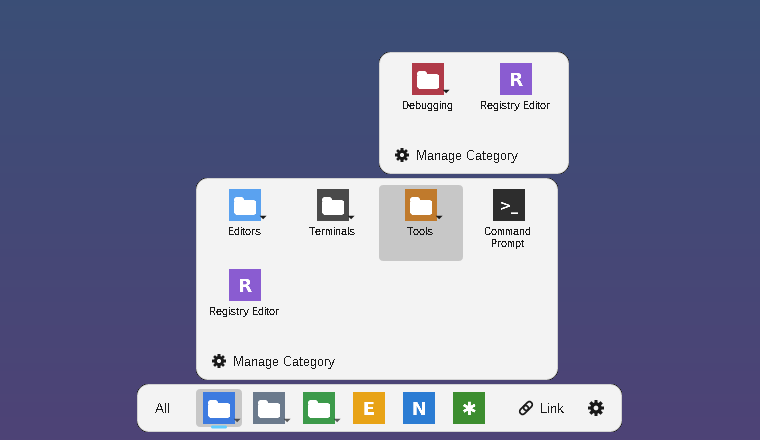
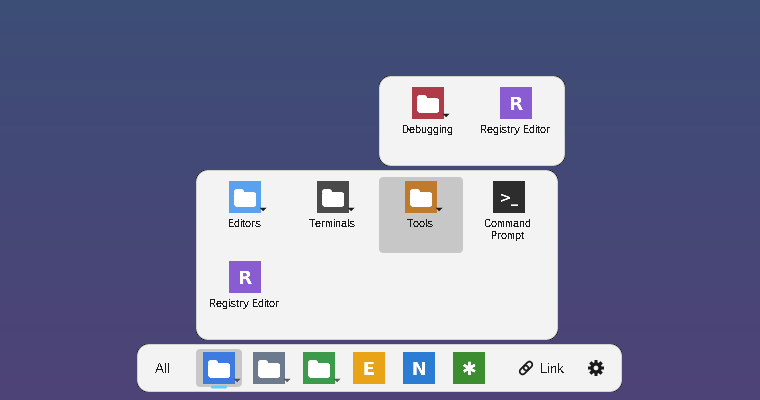
Remove "Manage Category" from category flyouts
Flyouts now only show subcategory and app tiles. Categories are managed
in the Manage window, reached from the bar's gear or the right-click
menu. README and screenshots updated.

Claude-Session: https://claude.ai/code/session_01GLkhGjuGndshja5QFx3dbt

Changed region(s): [[0.2421, 0.12, 0.7566, 0.63], [0.1816, 0.81, 0.8171, 0.99], [0.2724, 0.6, 0.3632, 0.78]]

diff --git a/src/win/flyout.rs b/src/win/flyout.rs
@@ -2,7 +2,7 @@
 //!
 //! - a **category** flyout: its subcategories and apps as tiles (large icon,
 //!   name underneath, `flyout_columns` per row; subcategories first, marked
-//!   with ▾), and "Manage Category" at the bottom. Resting the pointer on a
+//!   with ▾). Resting the pointer on a
 //!   subcategory opens *its* flyout floating above this one, the same way a
 //!   category on the strip opens, at any depth;
 //! - the **All** flyout: every app as a scrollable list.
@@ -56,7 +56,6 @@ enum View {
 enum Elem {
     Sub(u64),
     Tile(String),
-    Manage(u64),
     Row(String),
     /// Static text ("No apps in this category", the All header).
     Label,
@@ -334,7 +333,6 @@ fn rebuild(idx: usize) {
     struct Content {
         subs: Vec<(u64, String)>,
         tiles: Vec<(String, String)>,
-        manage: Option<u64>,
         empty: bool,
         rows: Vec<(String, String)>,
     }
@@ -342,14 +340,12 @@ fn rebuild(idx: usize) {
         View::Category(id) => crate::tree::find(&s.cfg.categories, *id).map(|c| Content {
             subs: c.children.iter().map(|ch| (ch.id, ch.name.clone())).collect(),
             tiles: c.apps.iter().filter_map(|a| s.catalog.get(a).map(|e| (a.clone(), e.name.clone()))).collect(),
-            manage: Some(*id),
             empty: c.children.is_empty() && c.apps.is_empty(),
             rows: Vec::new(),
         }),
         View::All { .. } => Some(Content {
             subs: Vec::new(),
             tiles: Vec::new(),
-            manage: None,
             empty: false,
             rows: s.catalog.apps.iter().map(|a| (a.id.clone(), a.name.clone())).collect(),
         }),
@@ -386,7 +382,7 @@ fn rebuild(idx: usize) {
                 .chain(content.tiles.iter().map(|(id, name)| (Elem::Tile(id.clone()), name.clone(), id.clone())))
                 .collect();
             let tiles_w = cols.min(items.len().max(1)) as i32 * (tile.0 + 2 * tm);
-            inner_w = tiles_w.max(canvas::measure("Manage Category", font).0 + s(48)).max(s(180));
+            inner_w = tiles_w.max(canvas::measure("No apps in this category", font).0 + s(16));
             let n = items.len();
             for ((col, row), (elem, text, icon)) in striplayout::grid(n, cols).into_iter().zip(items) {
                 let left = pad + col as i32 * (tile.0 + 2 * tm) + tm;
@@ -409,17 +405,6 @@ fn rebuild(idx: usize) {
                     icon: None,
                 });
                 y += s(28);
-            }
-            if let Some(id) = content.manage {
-                y += s(4);
-                let h = s(28);
-                elems.push(Placed {
-                    rect: RECT { left: pad, top: y, right: pad + inner_w, bottom: y + h },
-                    elem: Elem::Manage(id),
-                    text: "Manage Category".into(),
-                    icon: None,
-                });
-                y += h;
             }
         }
         View::All { first_row } => {
@@ -571,13 +556,6 @@ fn render(idx: usize) {
                         RECT { left: rc.left + s(4), top: y + size + s(4), right: rc.right - s(4), bottom: rc.bottom };
                     cv.text(&p.text, trc, f.small, c.text, DT_CENTER | DT_WORDBREAK | DT_END_ELLIPSIS);
                 }
-                Elem::Manage(_) => {
-                    let gx = rc.left as f32 + s(18) as f32;
-                    let gy = (rc.top + rc.bottom) as f32 / 2.0;
-                    cv.gear(gx, gy, s(7) as f32, c.text);
-                    let trc = RECT { left: rc.left + s(32), ..rc };
-                    cv.text(&p.text, trc, f.font, c.text, DT_VCENTER | DT_SINGLELINE);
-                }
                 Elem::Row(_) => {
                     let size = s(20);
                     let x = rc.left + s(8);
@@ -664,10 +642,6 @@ fn activate(idx: usize, i: usize) {
         Some(Elem::Tile(id) | Elem::Row(id)) => {
             close();
             app::launch_app(&id);
-        }
-        Some(Elem::Manage(id)) => {
-            close();
-            super::manager::show_category(id);
         }
         _ => {}
     }

diff --git a/README.md b/README.md
@@ -40,7 +40,7 @@ match the original .NET version.
 
 | Hover a category: subcategories and apps as tiles | Hover a subcategory: its flyout floats above |
 |---|---|
-| ![Development open: Editors, Terminals and Tools subcategory tiles, two app tiles, Manage Category](screenshots/tiles.png) | ![Development, then Tools above it, then Debugging above that](screenshots/subcategory.png) |
+| ![Development open: Editors, Terminals and Tools subcategory tiles, two app tiles](screenshots/tiles.png) | ![Development, then Tools above it, then Debugging above that](screenshots/subcategory.png) |
 | **All: every app** | **Light theme, rounded floating dock** |
 | ![All apps list above the All button](screenshots/all-apps.png) | ![Light theme, bar fitted to its icons with rounded corners and a gap from the screen edge, with two flyout levels open](screenshots/light-dock.png) |
 | **Appearance window** | **Right-click: the full menu** |
@@ -78,8 +78,9 @@ out like the original FlexTaskbar:
   - resting the pointer on a subcategory opens **its flyout floating above**
     this one, and so on at any depth. Moving to another subcategory switches
     the flyout above; resting on an app tile closes it;
-  - *No apps in this category* when it's empty, and **Manage Category** at the
-    bottom, which opens the Manage window on that category.
+  - *No apps in this category* when it's empty. Flyouts only launch apps;
+    categories are managed in the Manage window (⚙ on the bar, or
+    right-click a category and pick *Manage categories…*).
   - The flyouts close shortly after the pointer leaves all of them and the
     bar button.
 - **Slide between categories.** While a flyout is open, moving along the bar
@@ -156,7 +157,8 @@ custom icons are copied over.
 
 The docked bar is back in its original look: *All* on the left, category and
 app icons in the centre, *Link* and ⚙ on the right, and category flyouts with
-subcategory and app tiles and *Manage Category*. Subcategory flyouts float above
+subcategory and app tiles. Managing categories moved out of the flyouts into
+the Manage window. Subcategory flyouts float above
 the one they open from, like the bar's own categories. Its colours, transparency,
 border and corners are now adjustable.
 It now sits beside the Windows taskbar instead of trying to replace it, so these
